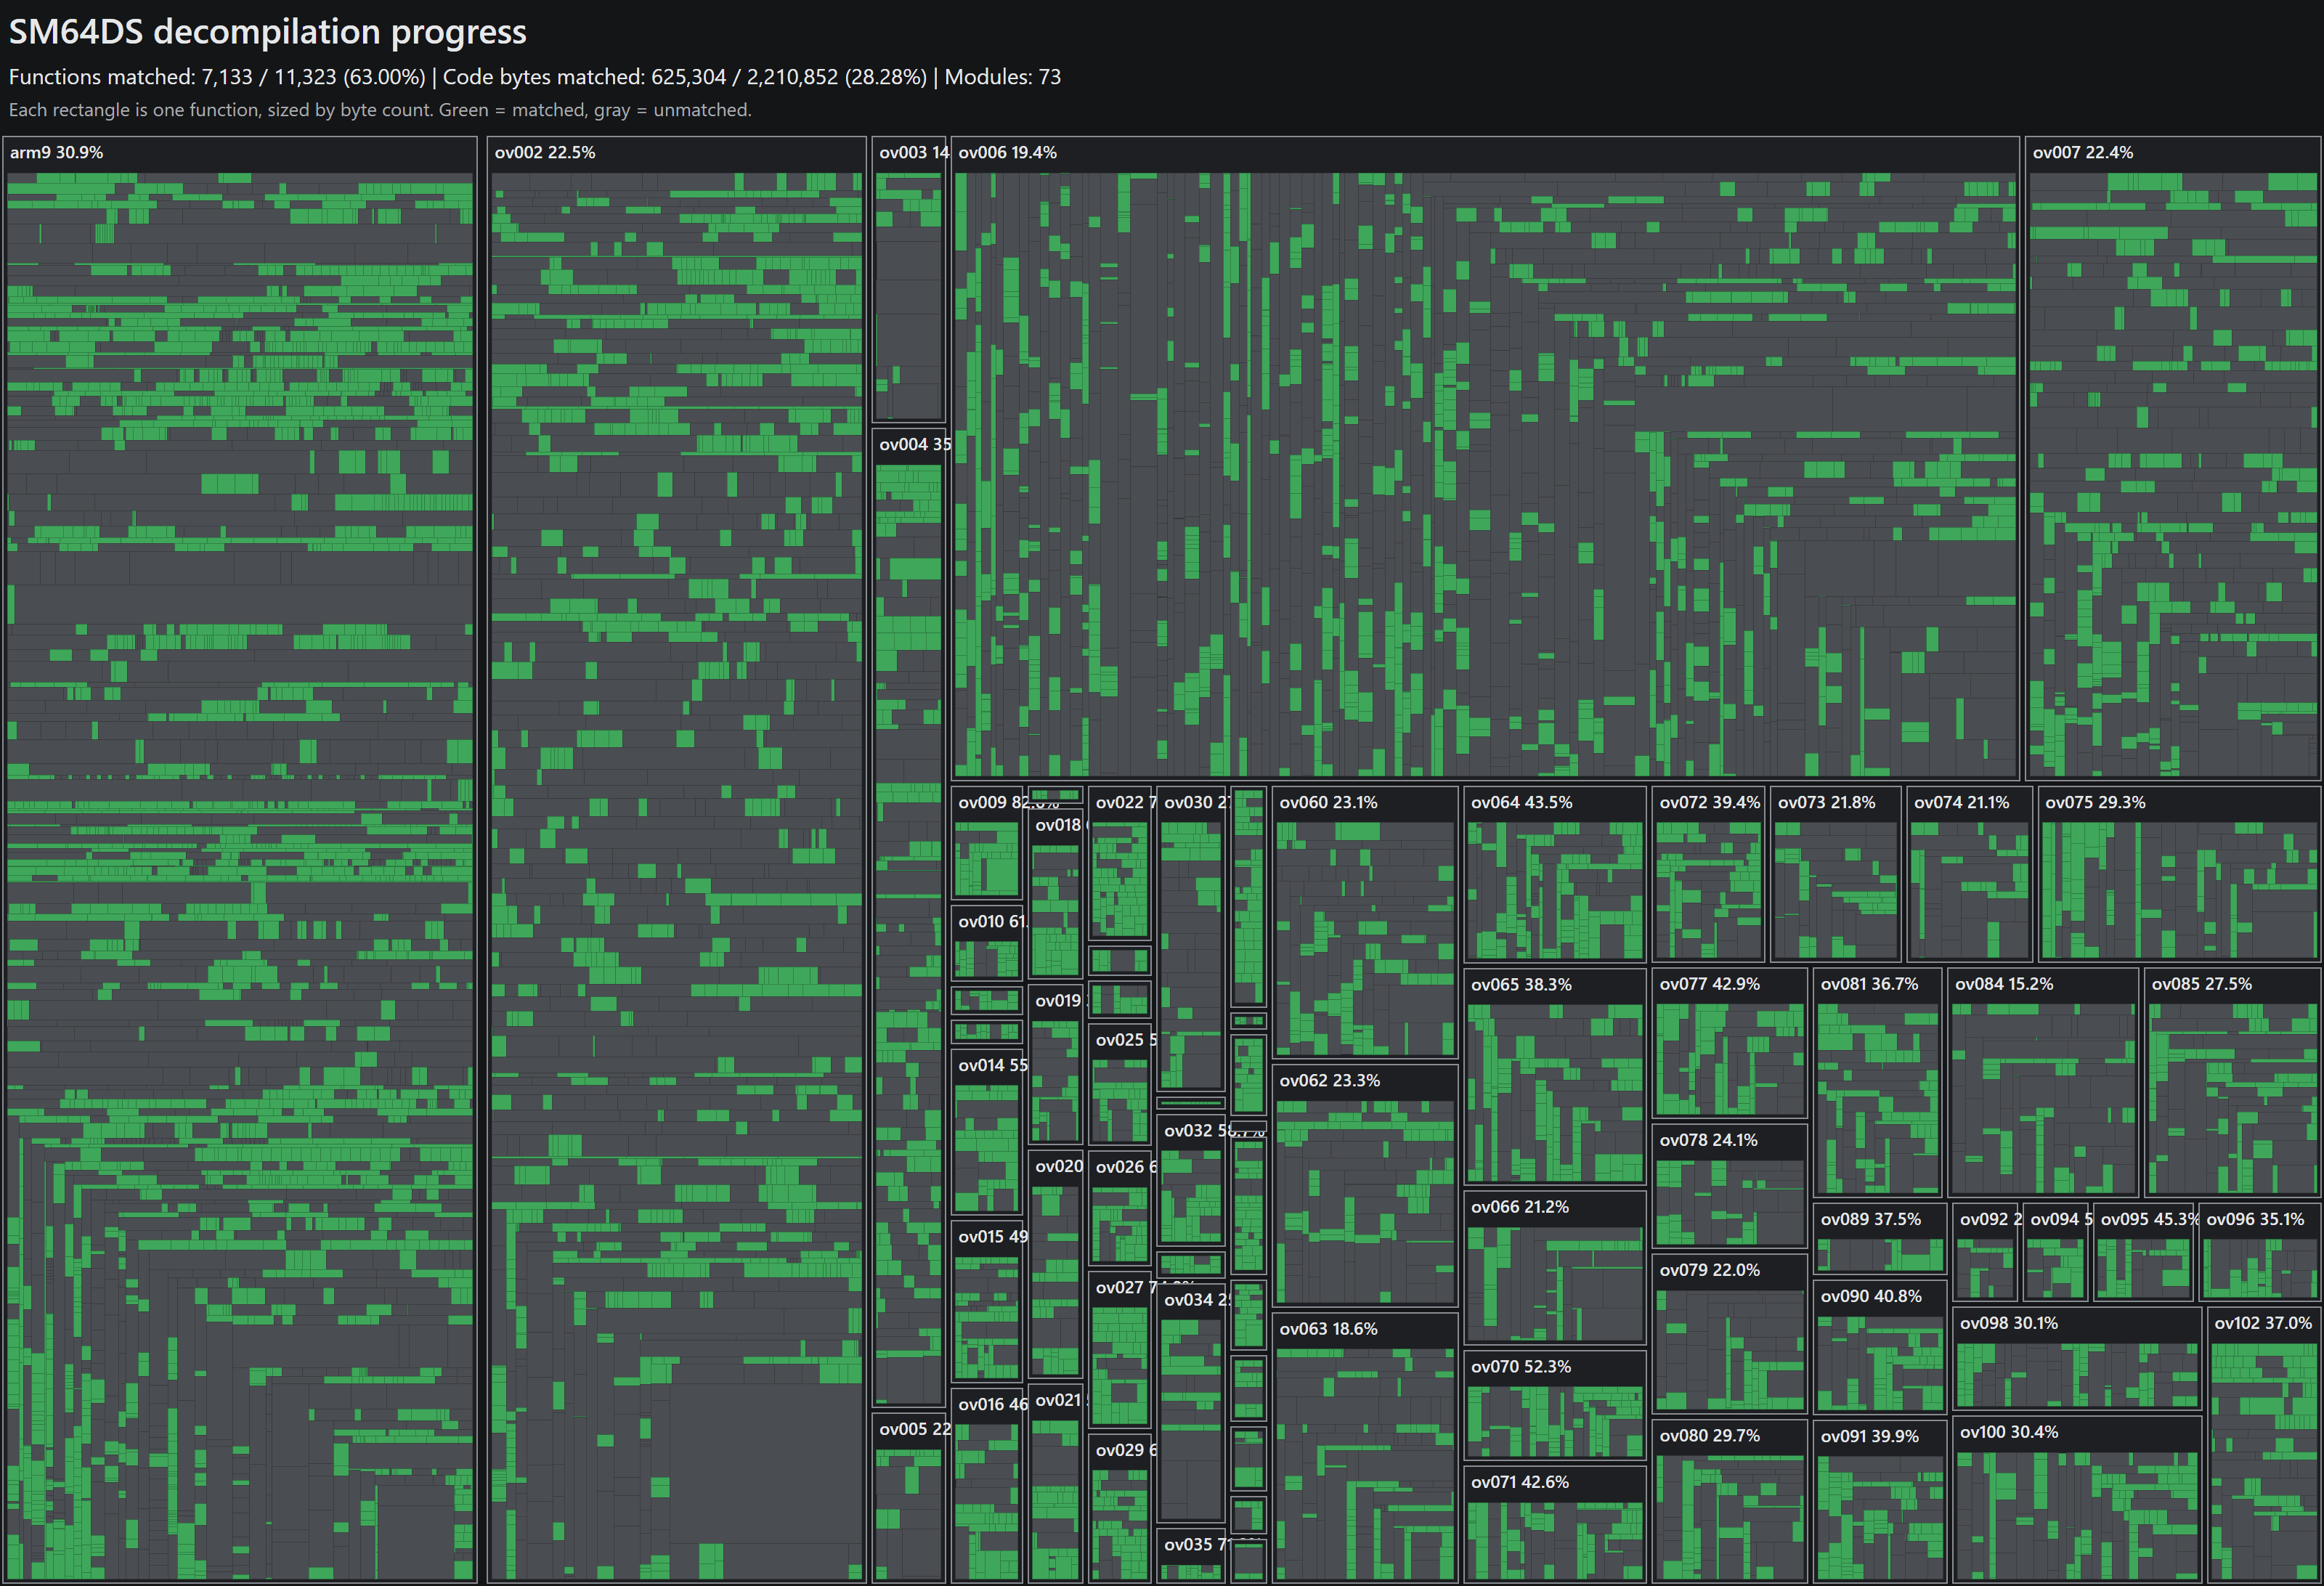
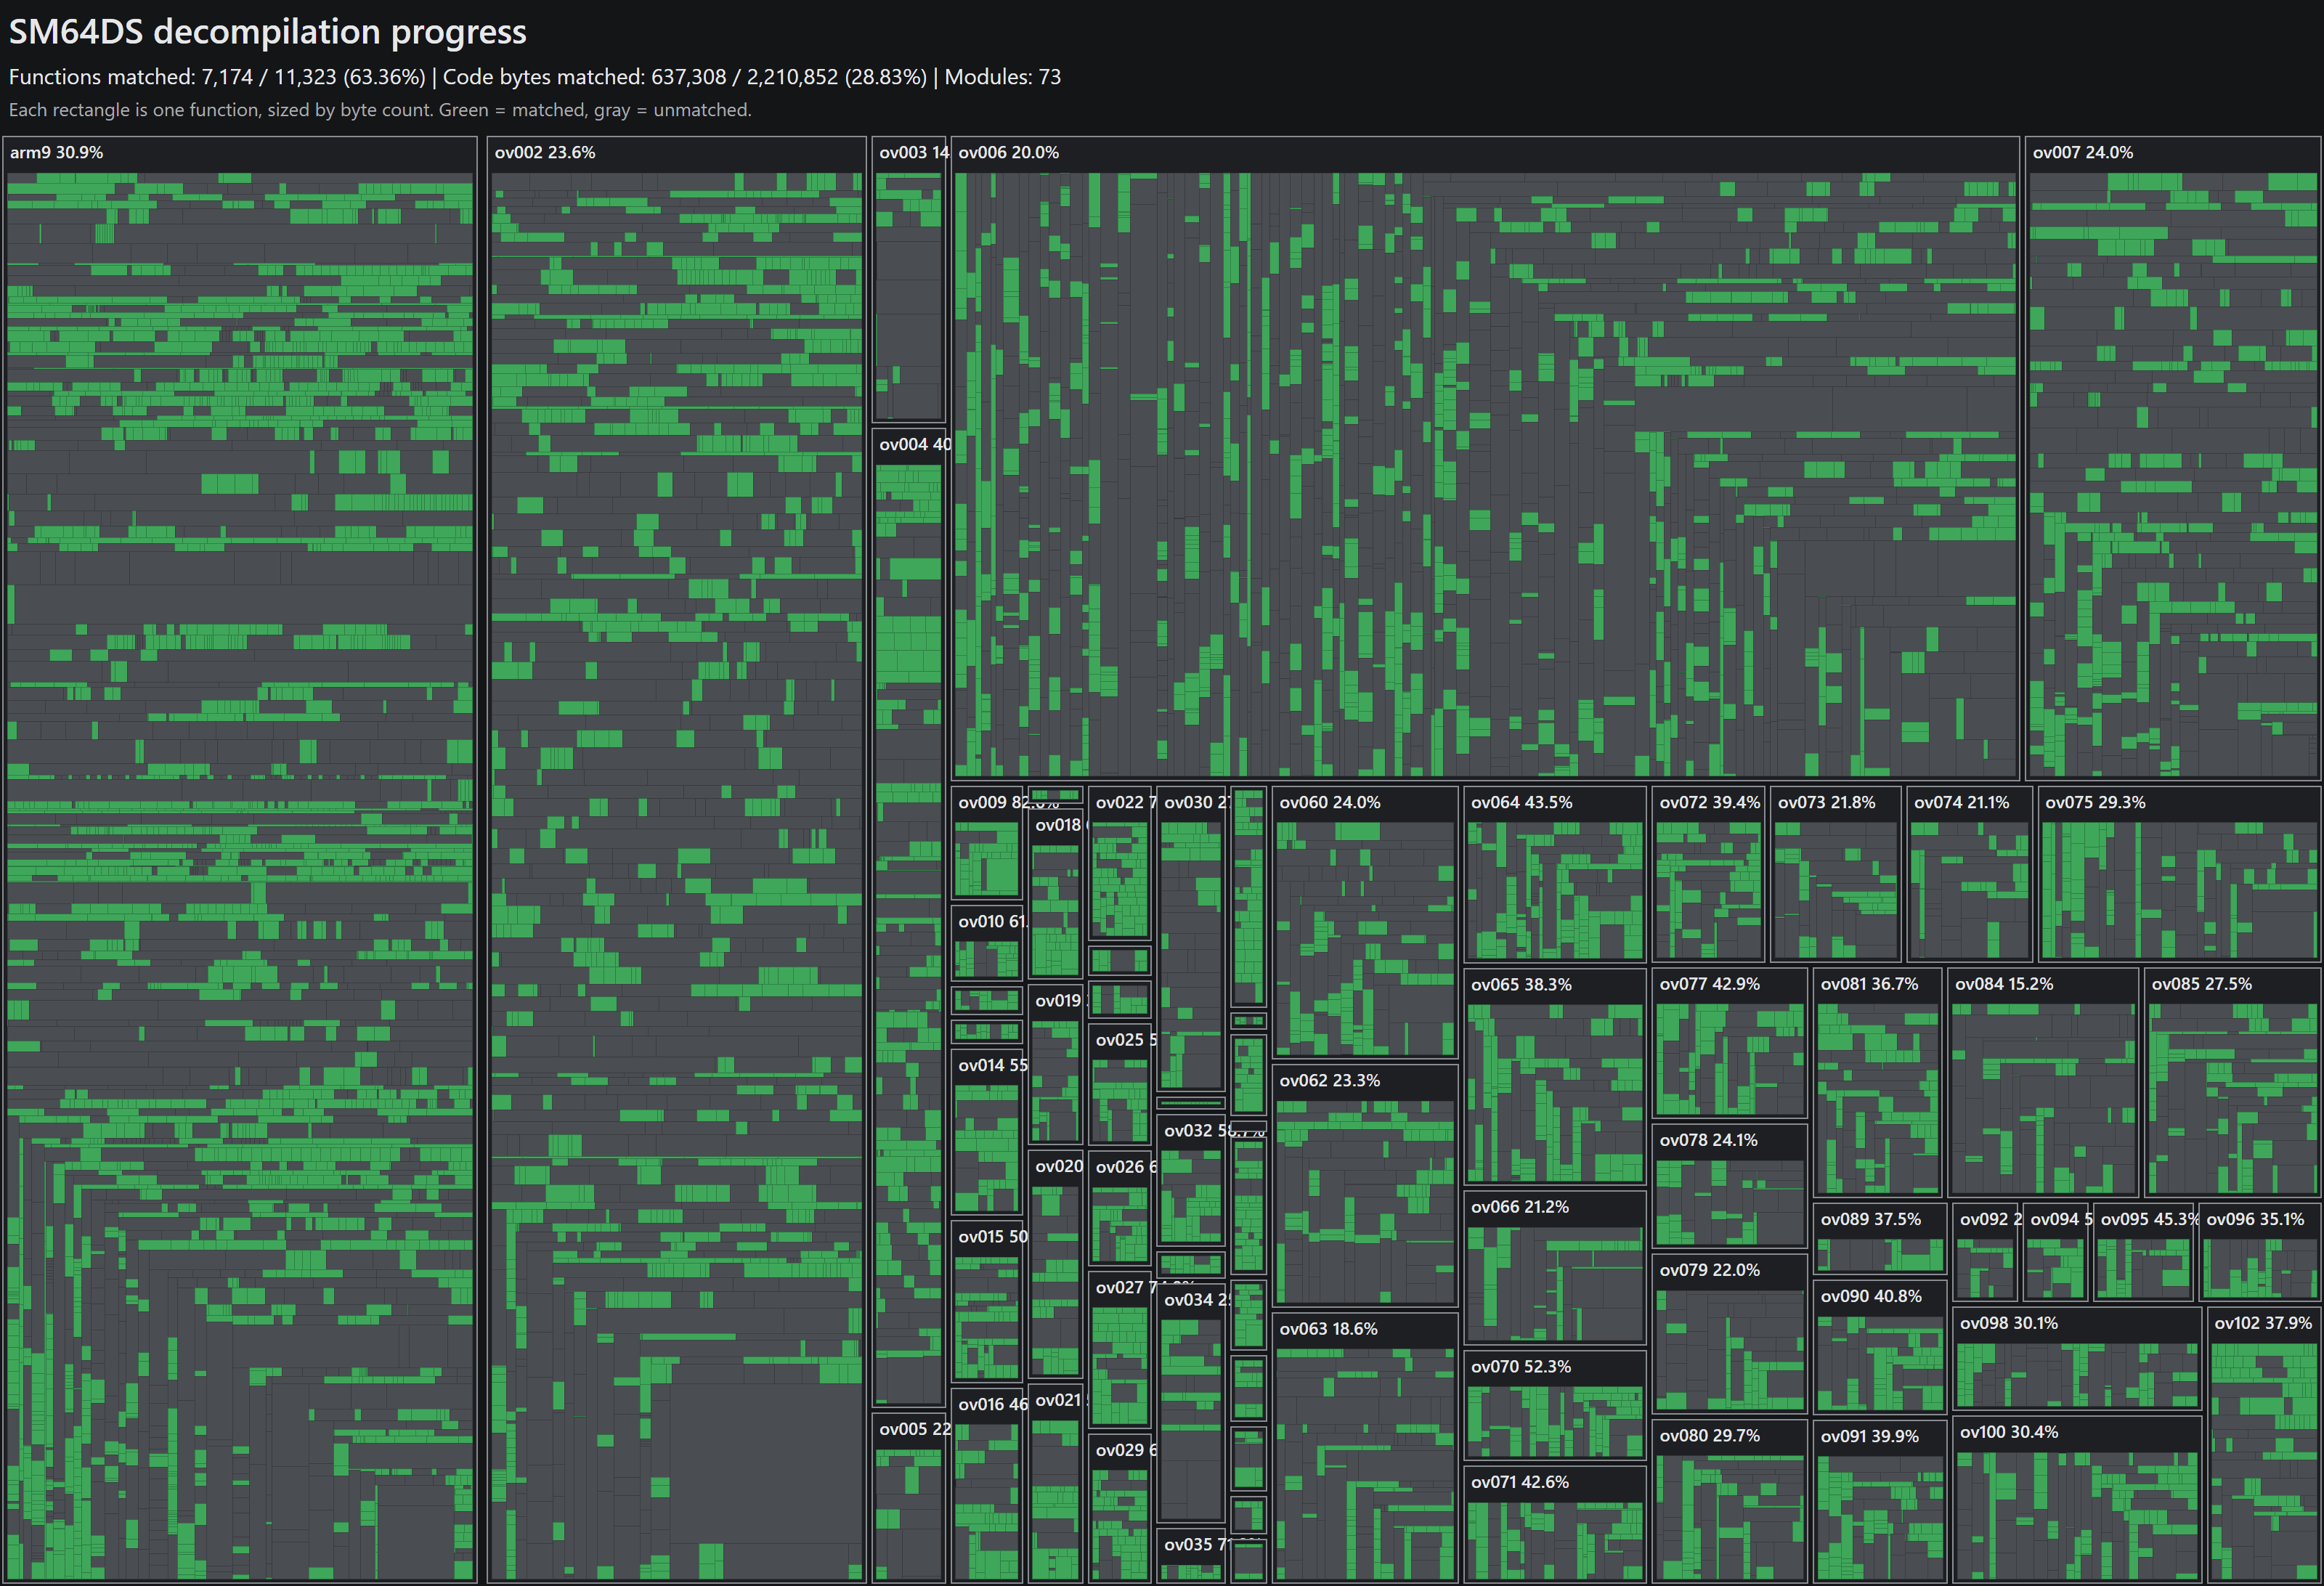
Refresh progress to 63.0% after merging andrewboudreau PRs
Merged PRs #48 (41 verified matches across seven overlays), #49 (codegen
notes), and #47 (opt-in reloc destination audit and check). Registers the 41
matches, updates the README bar and treemap, and credits the contributions.

Built with Claude Code.

diff --git a/README.md b/README.md
@@ -5,8 +5,8 @@ A from-scratch effort to decompile **Super Mario 64 DS** into matching C.
 ## Progress
 
 ```
-Functions  ███████████████████░░░░░░░░░░░  62.6%   7,133 / 11,390
-Code size  ████████░░░░░░░░░░░░░░░░░░░░░░  28.0%   625,304 / 2,234,028 bytes
+Functions  ███████████████████░░░░░░░░░░░  63.0%   7,174 / 11,390
+Code size  █████████░░░░░░░░░░░░░░░░░░░░░  28.5%   637,308 / 2,234,028 bytes
 ```
 
 Every arm-mode function in the game, drawn as a treemap. Each rectangle is one
@@ -147,15 +147,16 @@ ROM.
 Function contributions: [RyanCopley](https://github.com/RyanCopley) hand-matched a set of
 functions across ov002, ov006, arm9, and ov034 (PR #1), including the first functions in
 ov034 and several that had resisted the automated passes.
-[andrewboudreau](https://github.com/andrewboudreau) hand-matched 9 functions across arm9,
-ov002, ov006, and ov007 (PR #2), then 33 more across arm9 and seven overlays plus codegen
-notes (PRs #45 and #48).
+[andrewboudreau](https://github.com/andrewboudreau) has hand-matched a large set of functions
+across arm9 and many overlays (PRs #2, #45, #48), and contributed codegen notes on boolean
+materialization and predicated-select shapes (PR #49).
 [Moundistz](https://github.com/Moundistz) contributed 3 matched functions and 8 nonmatching
 floor entries, plus a pass of placeholder-to-resolved callee renames across the arm9 corpus.
 
 Tooling contributions: [webheadvr](https://github.com/webheadvr) made the relocation
 symbol resolver module-aware, fixing wrong-overlay symbol picks where overlay address
-ranges overlap.
+ranges overlap. [andrewboudreau](https://github.com/andrewboudreau) added a relocation
+destination audit and an opt-in strict-relocs check to the verify path (PR #47).
 
 ## License
 

diff --git a/CREDITS.md b/CREDITS.md
@@ -24,9 +24,10 @@ If you contribute, keep this separation: import knowledge, write code.
   for 9 functions across arm9, ov002, ov006, and ov007 (PR #2). These are reloc tail-call,
   guard-return, and call-forwarding shapes the automated passes deliberately skip; all were
   independently re-verified byte-for-byte, identical across the 1.2 base/sp2/sp2p3 trio, before
-  landing. Followed up with 33 more matched functions across arm9, ov002, ov004, ov006, ov007,
-  ov060, and ov102 (PRs #45 and #48) plus codegen notes; all 33 independently re-verified against
-  the ROM before landing.
+  landing. Has since hand-matched a large further set across arm9 and many overlays
+  (PRs #45 and #48, including a 41 function batch across ov002/ov004/ov006/ov007/ov015/ov060/ov102),
+  all independently re-verified byte-for-byte before landing, and contributed codegen notes on
+  boolean materialization and predicated-select shapes (PR #49).
 - **Moundistz** (https://github.com/Moundistz) - contributed 3 matched functions and 8
   nonmatching floor entries, plus a pass of placeholder-to-resolved callee renames across the
   arm9 corpus. Every candidate was independently re-verified against the ROM before landing;
@@ -38,3 +39,7 @@ If you contribute, keep this separation: import knowledge, write code.
   module-aware: it now resolves by `(module, address)` instead of address alone, so a
   reloc is no longer mis-resolved to a symbol from a different overlay where overlay
   address ranges overlap. Also added ITCM/DTCM symbol support.
+- **Andrew Boudreau** (https://github.com/andrewboudreau) - added a relocation destination audit
+  (`tools/reloc_audit.py`) and an opt-in `match.py --strict-relocs` check that verifies each
+  reloc slot points at the address `config/**/relocs.txt` records, closing a gap where the
+  byte compare wildcards relocated words without checking their destination (PR #47).